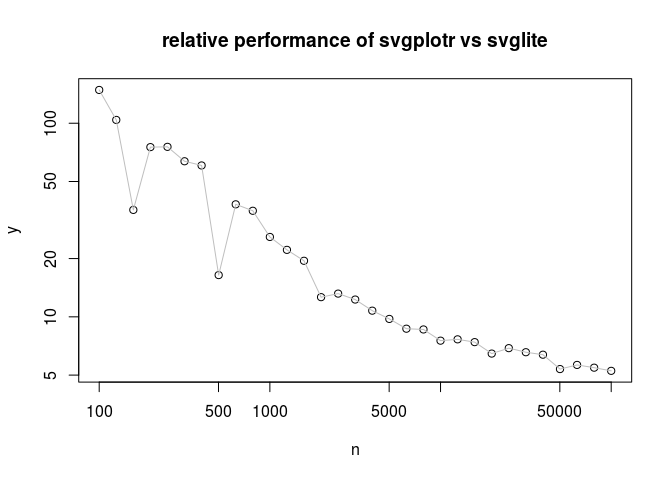
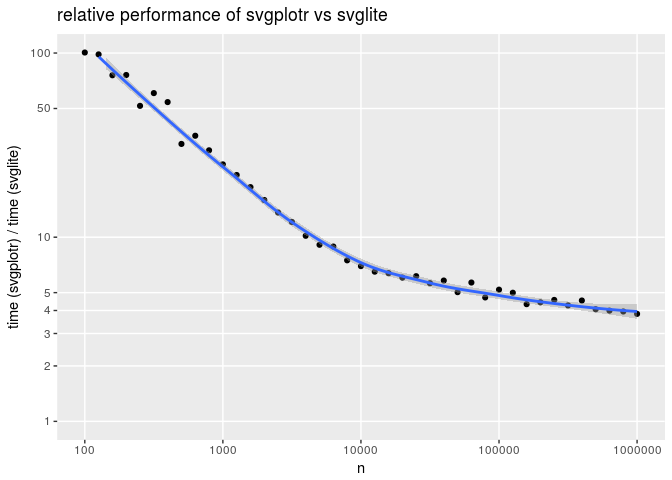
extend readme timing comparisons to n=1e6

diff --git a/README.md b/README.md
@@ -4,7 +4,12 @@
 svgplotr
 ========
 
-Fast `svg` plots in **R**. Currently just a demonstration of speed relative to [`svglite`](https://github.com/r-lib/svglite). The function `getdat()` generates a series of random edges with varying colours and line widths to be plotted. Comparison is against a `ggplot2` object with no embellishments, set up with the following code
+Fast `svg` plots in **R**. Currently just a demonstration of speed relative to [`svglite`](https://github.com/r-lib/svglite) based on two functions:
+
+1.  `getdat(n)` which generates a series of `n` random edges tracing a single path with varying colours and line widths; and
+2.  `svgplot()` to write those data to a `html`-formatted `svg` file.
+
+Comparison is against a `ggplot2` object with no embellishments, set up with the following code
 
 ``` r
 require (ggplot2)
@@ -21,16 +26,19 @@ ggmin_theme <- function ()
     theme$axis.ticks.length <- unit (0, 'null')
     return (theme)
 }
+ggfig <- function (dat)
+{
+    ggplot () + ggmin_theme () +
+        geom_segment (aes (x = xfr, y = yfr, xend = xto, yend = yto,
+                       colour = col, size = lwd), size = dat$lwd, data = dat)
+}
 ```
 
 One set of random lines can then be generated and plotted like this:
 
 ``` r
 dat <- getdat (n = 1e4, xylim = 1000)
-fig <- ggplot () + ggmin_theme () +
-    geom_segment (aes (x = xfr, y = yfr, xend = xto, yend = yto,
-                       colour = col, size = lwd), size = dat$lwd, data = dat)
-print (fig)
+ggfig (dat)
 ```
 
 ![](README-fig-1.png)
@@ -38,7 +46,7 @@ print (fig)
 Timing Comparison
 -----------------
 
-Differences in timing depend on the scale of figures
+`svgplotr` is considerably faster than `svglite`, but speed differences depend on numbers of lines (`n` in `getdat()`). The following code returns quantifies the time taken by `svglite` in comparison to `svgplotr` as a function of `n`.
 
 ``` r
 require (svglite)
@@ -52,10 +60,7 @@ plotgg <- function (fig)
 do1test <- function (n = 1e3, nreps = 5)
 {
     dat <- getdat (n = n)
-    fig <- ggplot () + ggmin_theme () +
-        geom_segment (aes (x = xfr, y = yfr, xend = xto, yend = yto,
-                           colour = col, size = lwd),
-                      size = dat$lwd, data = dat)
+    fig <- ggfig (dat)
     rbenchmark::benchmark (
                            plotgg (fig),
                            svgplot (dat, filename = "lines"),
@@ -63,17 +68,26 @@ do1test <- function (n = 1e3, nreps = 5)
                            replications = nreps)$relative [1]
 }
 
-n <- 10 ^ (20:50 / 10)
+n <- 10 ^ (20:60 / 10)
 y <- sapply (n, do1test)
 ```
 
 Then plot the results
 
 ``` r
-plot (n, y, log = "xy", main = "relative performance of svgplotr vs svglite")
-lines (n, y, col = "gray")
+dat <- data.frame (n = n, y = y)
+ggplot (dat, aes (x = n, y = y)) +
+    theme (panel.grid.minor = element_blank ()) +
+    scale_x_log10 (breaks = 10 ^ (2:6)) +
+    scale_y_log10 (limits = c (1, max (y)),
+                   breaks = c (1:5, 10, 50, 100)) +
+    geom_point () +
+    geom_smooth (method = "loess", se = TRUE) +
+    ylab ("time (svgplotr) / time (svglite)") +
+    labs (title = "relative performance of svgplotr vs svglite")
+#> Warning: Removed 2 rows containing missing values (geom_smooth).
 ```
 
 ![](README-plot-timings-1.png)
 
-And efficiency gains will at some stage be lost, but for up to around 10,000 edges, `svgplotr` generally remains an order of magnitude faster than `svglite`. This figure is nevertheless logarithically scaled, indicating that efficiency gains decrease exponentially with increasing size, so maybe it's not worth it after all?
+And efficiency gains initially decrease exponentially, but then flatten out and appear to approach an asymptotic limit of around three times faster. Even for the maximum size in this plot of 1 million edges, `svgplotr` is almost 4 times faster than `svglite`.
